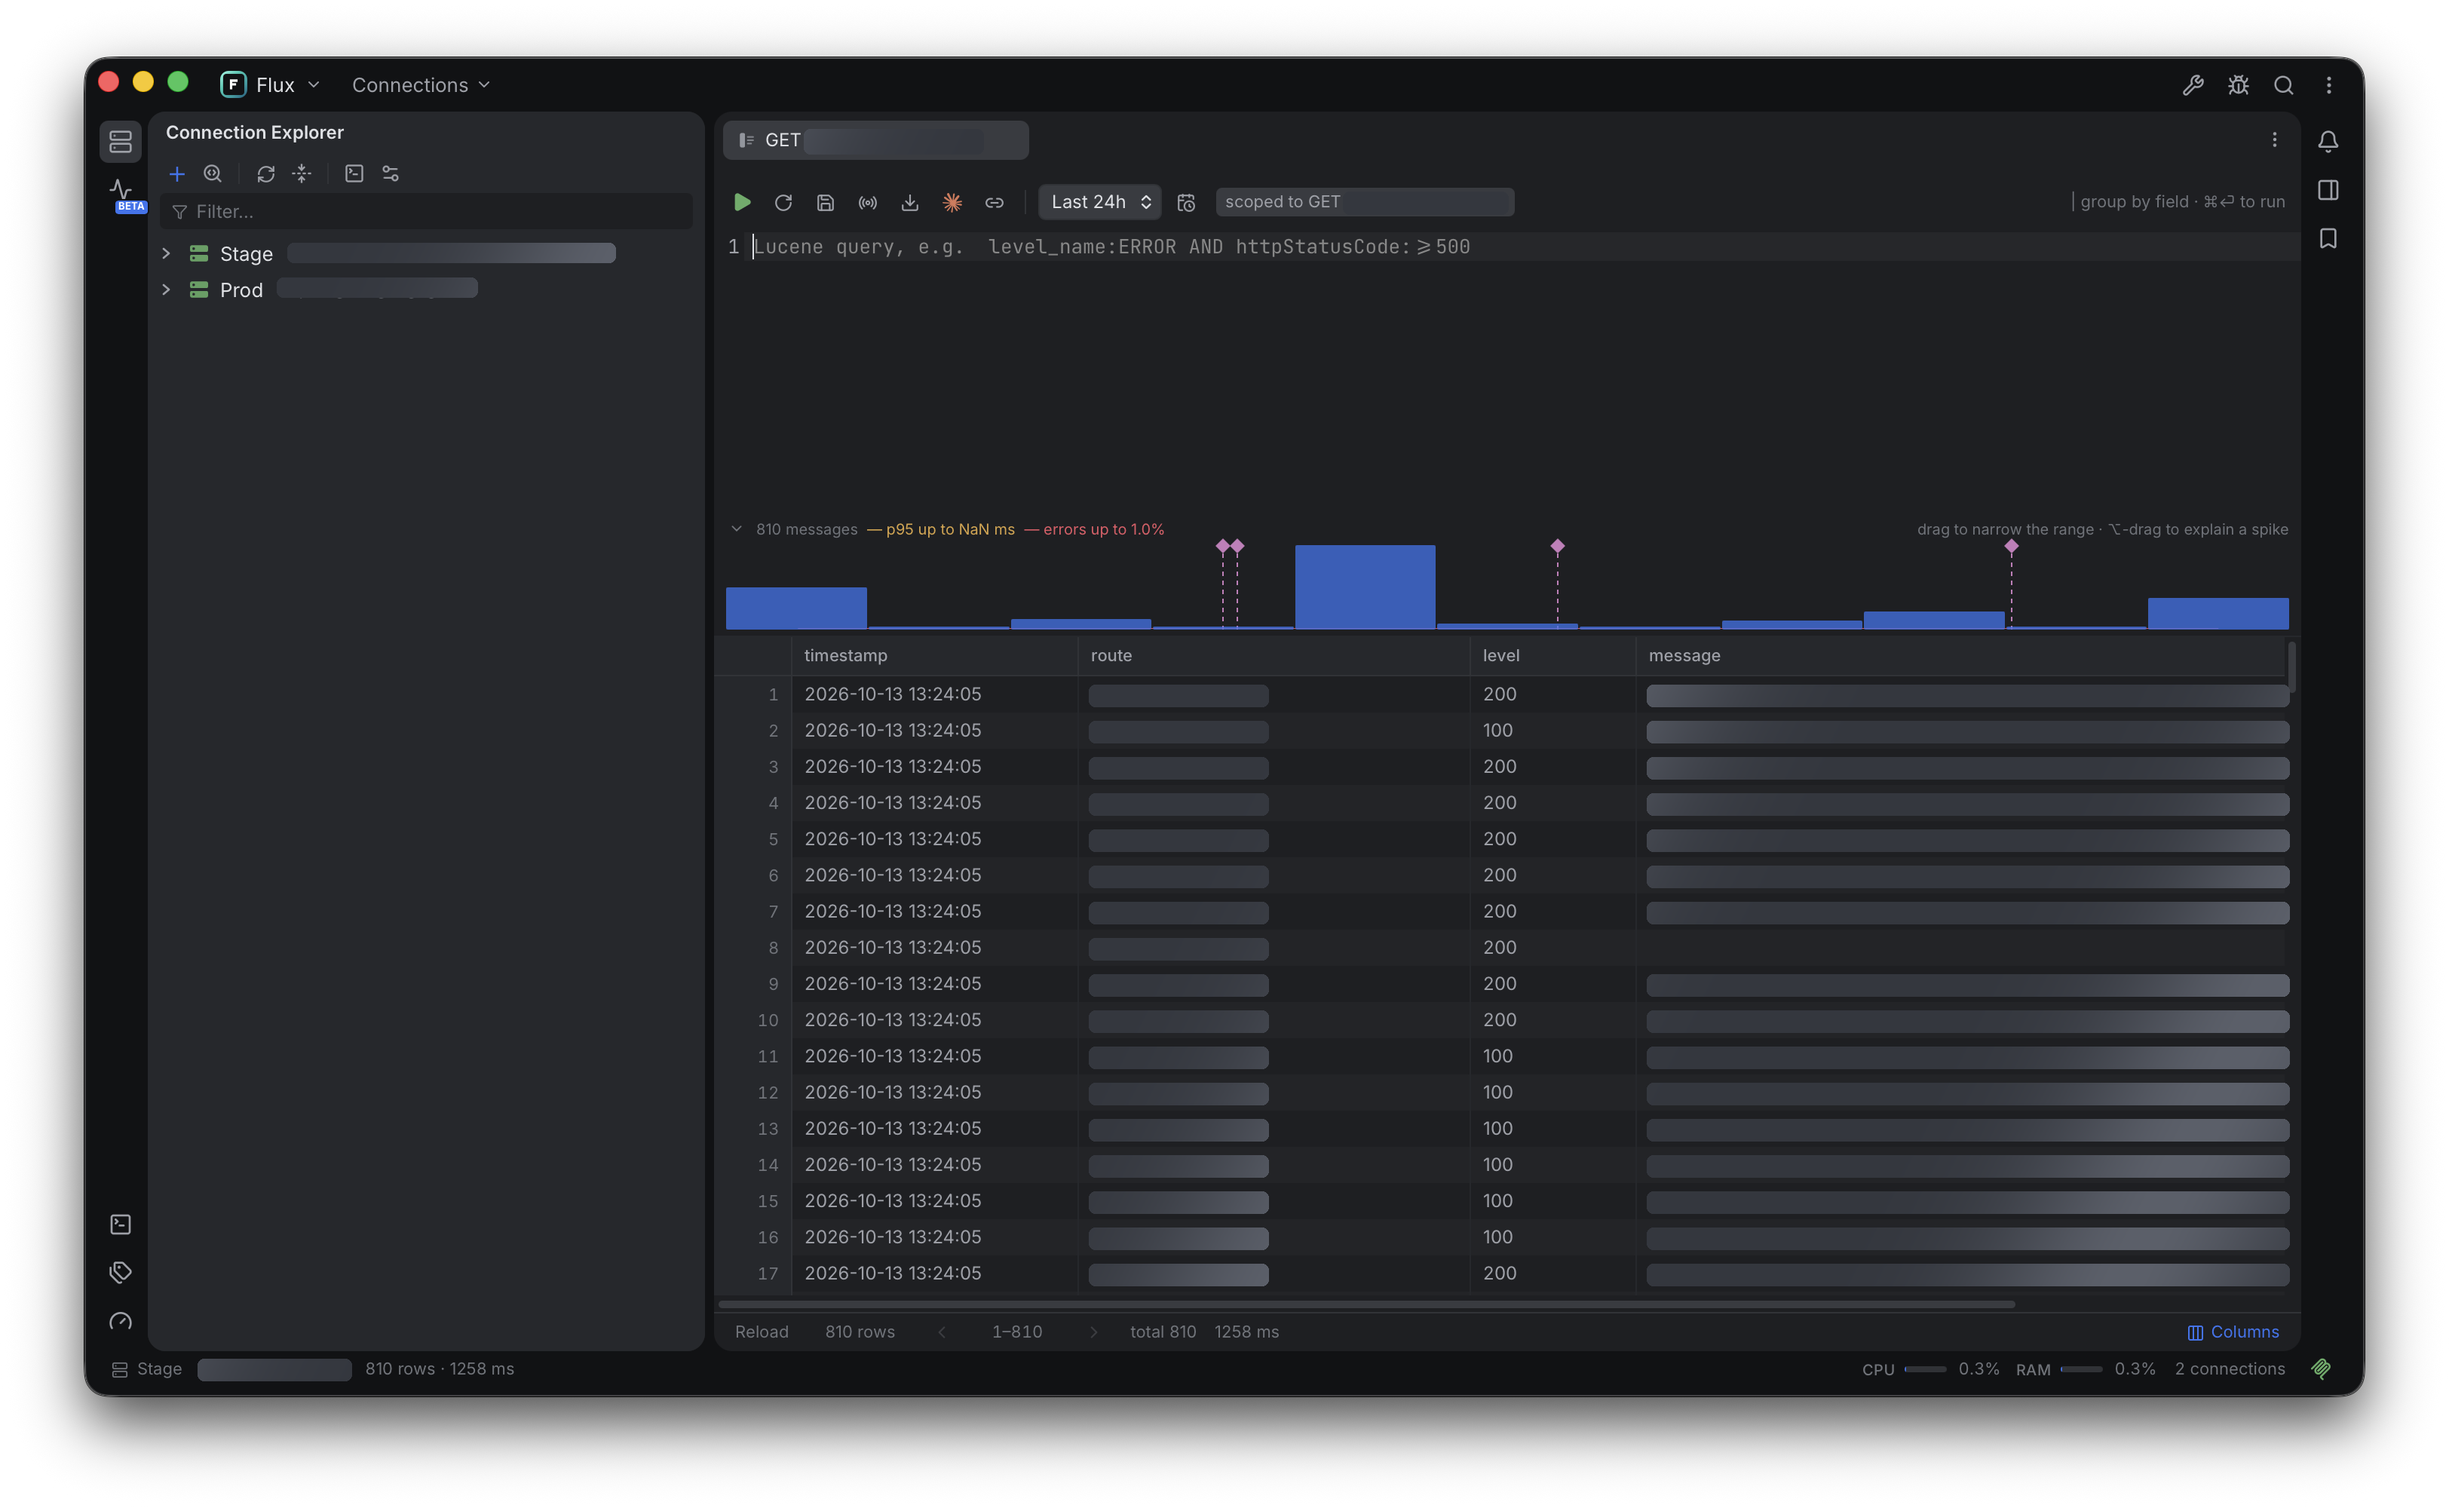
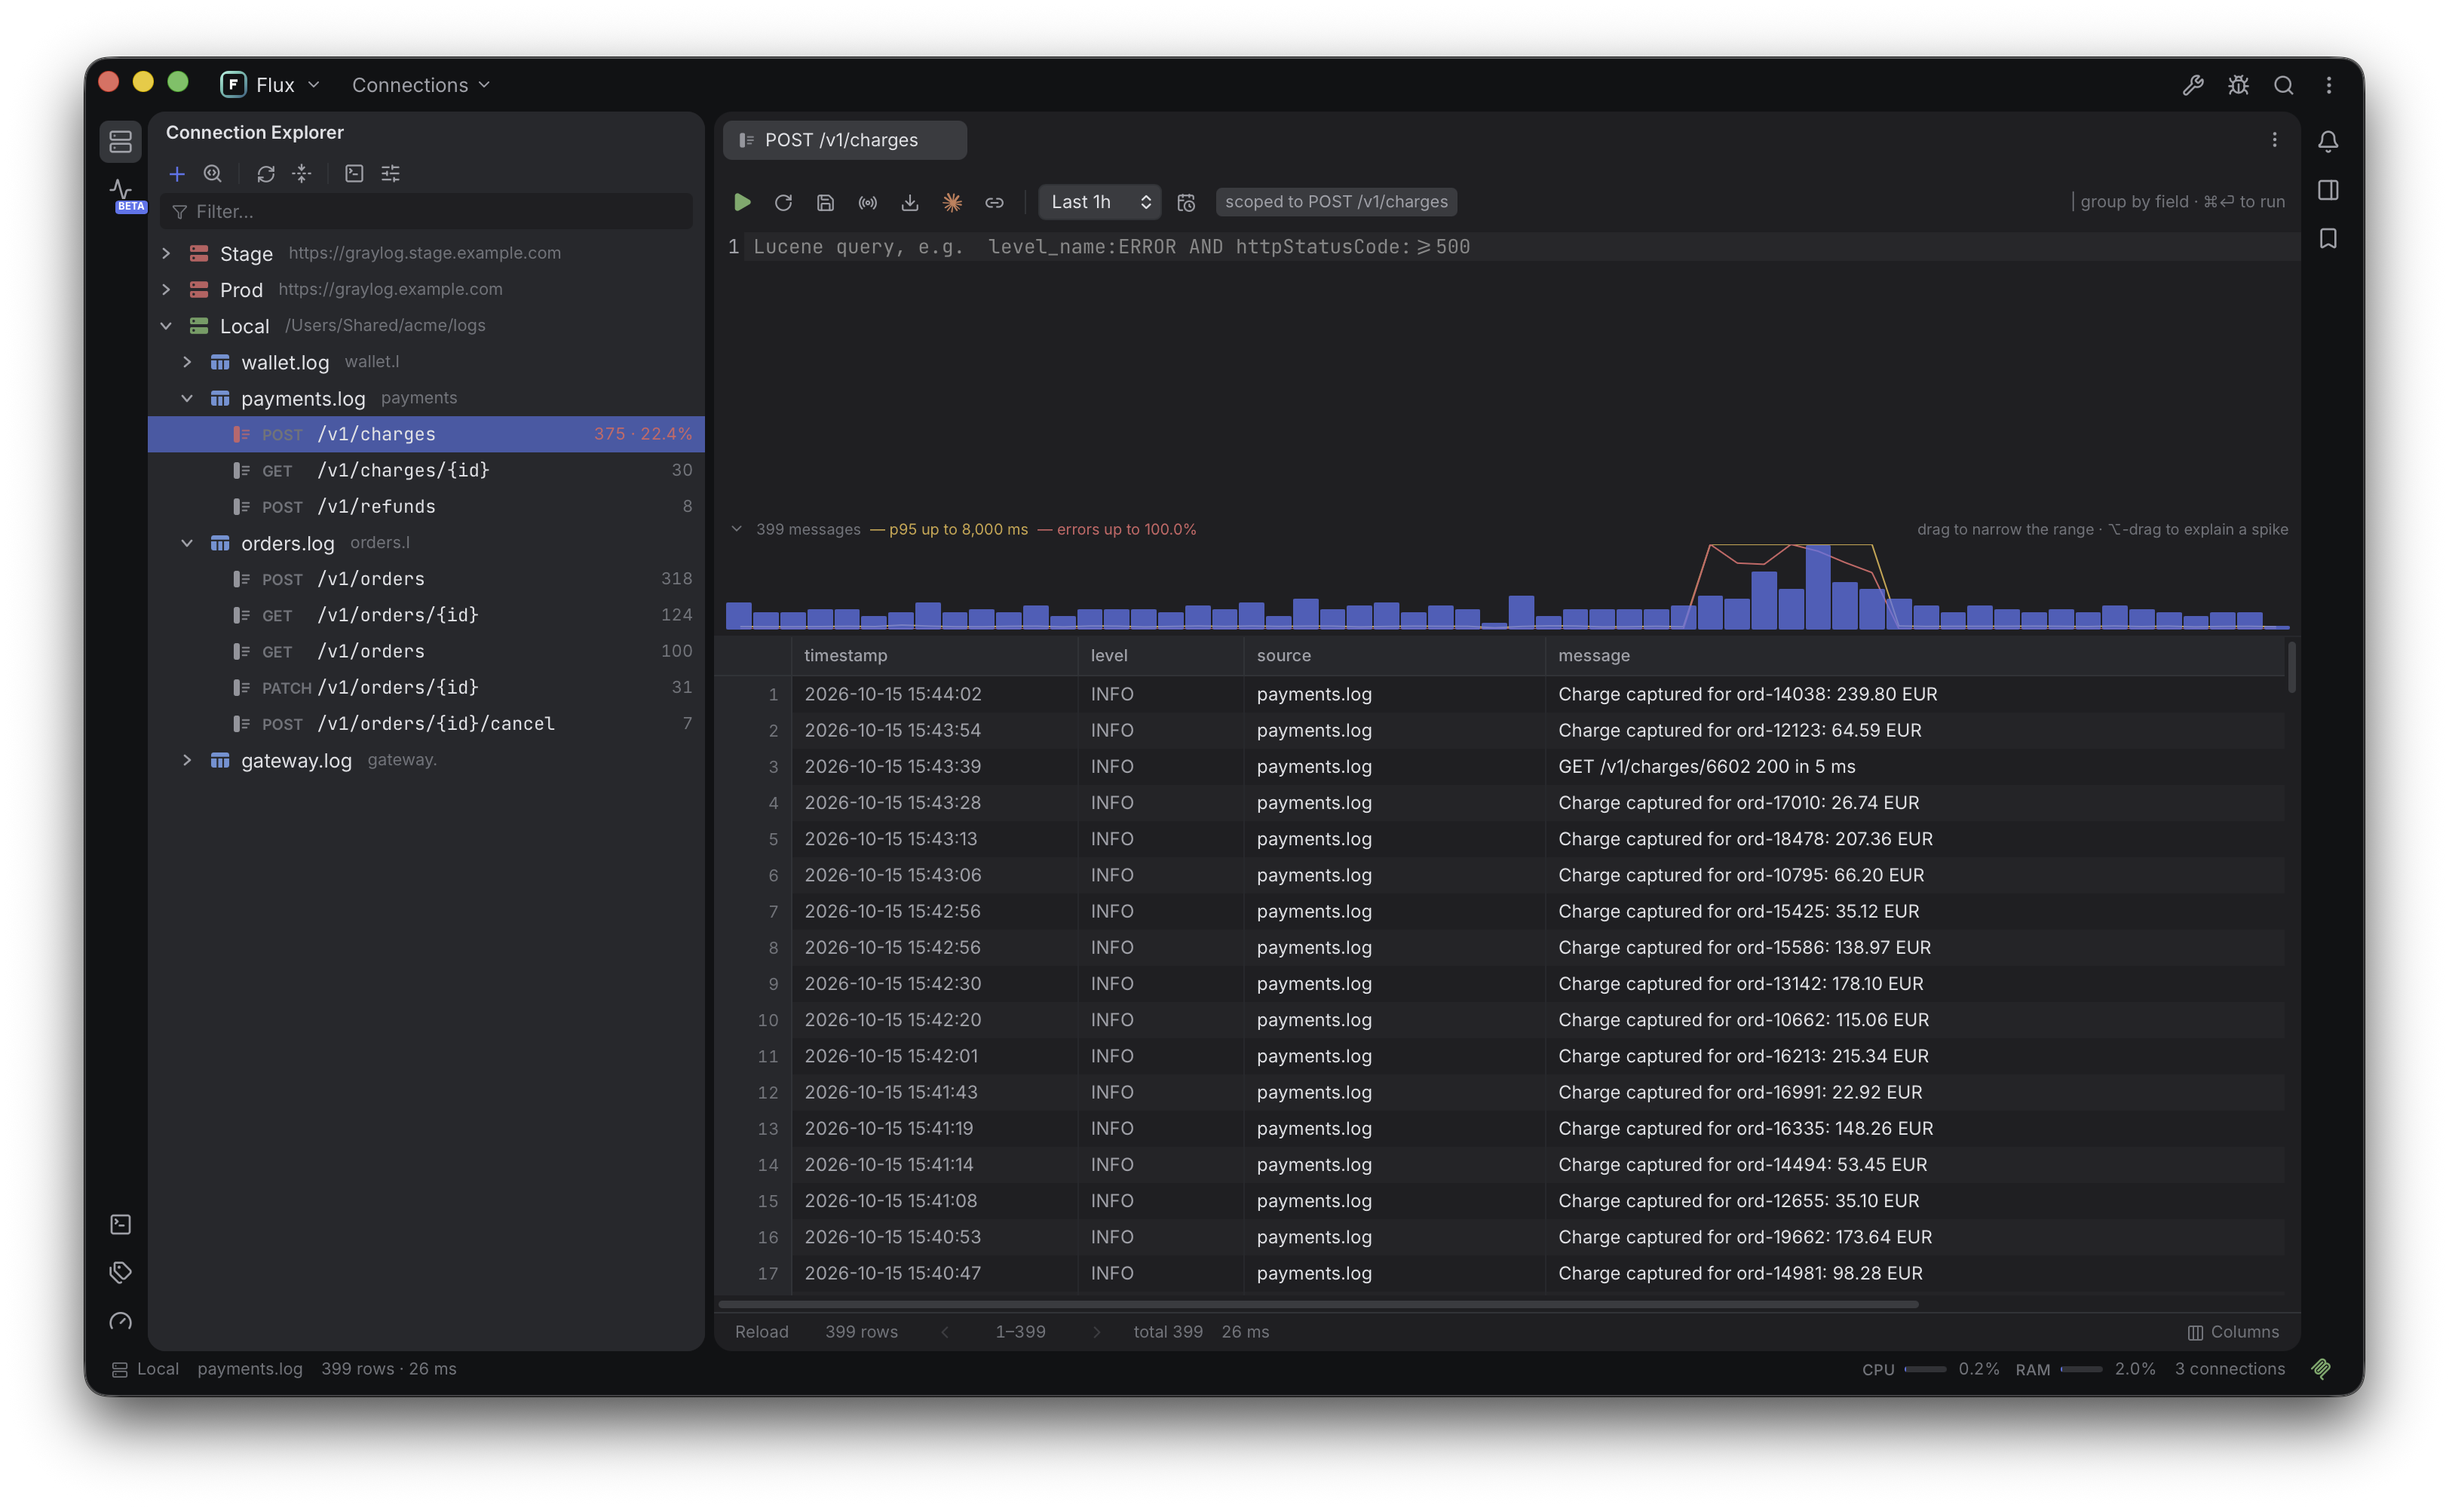
docs: the README's screenshot with demo data instead of masks
The screenshot was of a real setup with its addresses, routes and messages masked out. It is
taken again from the app itself, reading a folder of demo logs as a Local connection: example
addresses for the Graylog connections, a fictional shop's streams and endpoints in the explorer,
and POST /v1/charges open with its spike, p95 and error lines over the timeline.

diff --git a/README.md b/README.md
@@ -8,7 +8,7 @@
 
 Navigate your logs by structure instead of retyping filters.
 
-<img src="assets/screenshot.png" width="900" alt="Flux with two connections in the explorer" />
+<img src="assets/screenshot.png" width="900" alt="Flux with a connection's streams and endpoints in the explorer, and a spike on POST /v1/charges" />
 
 </div>
 
